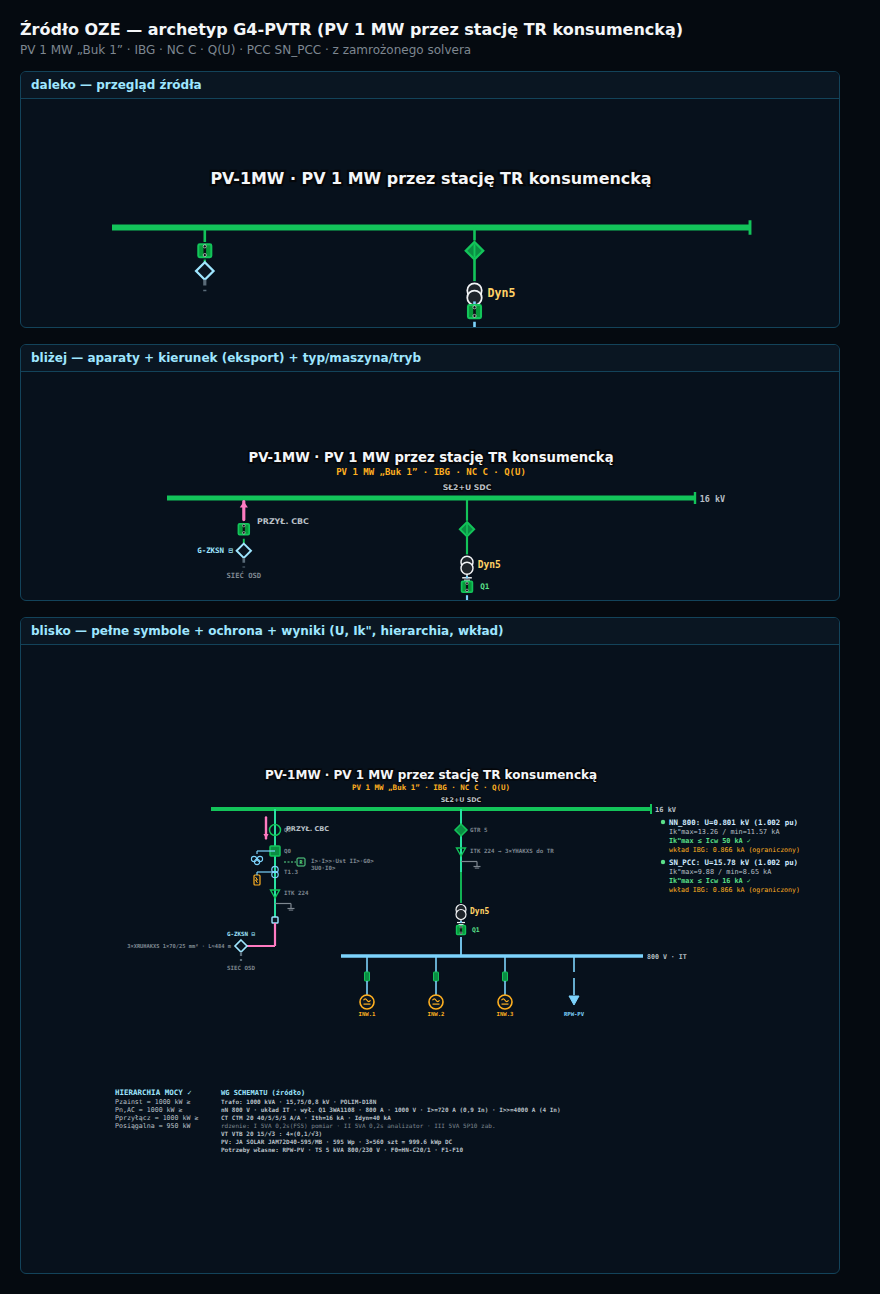
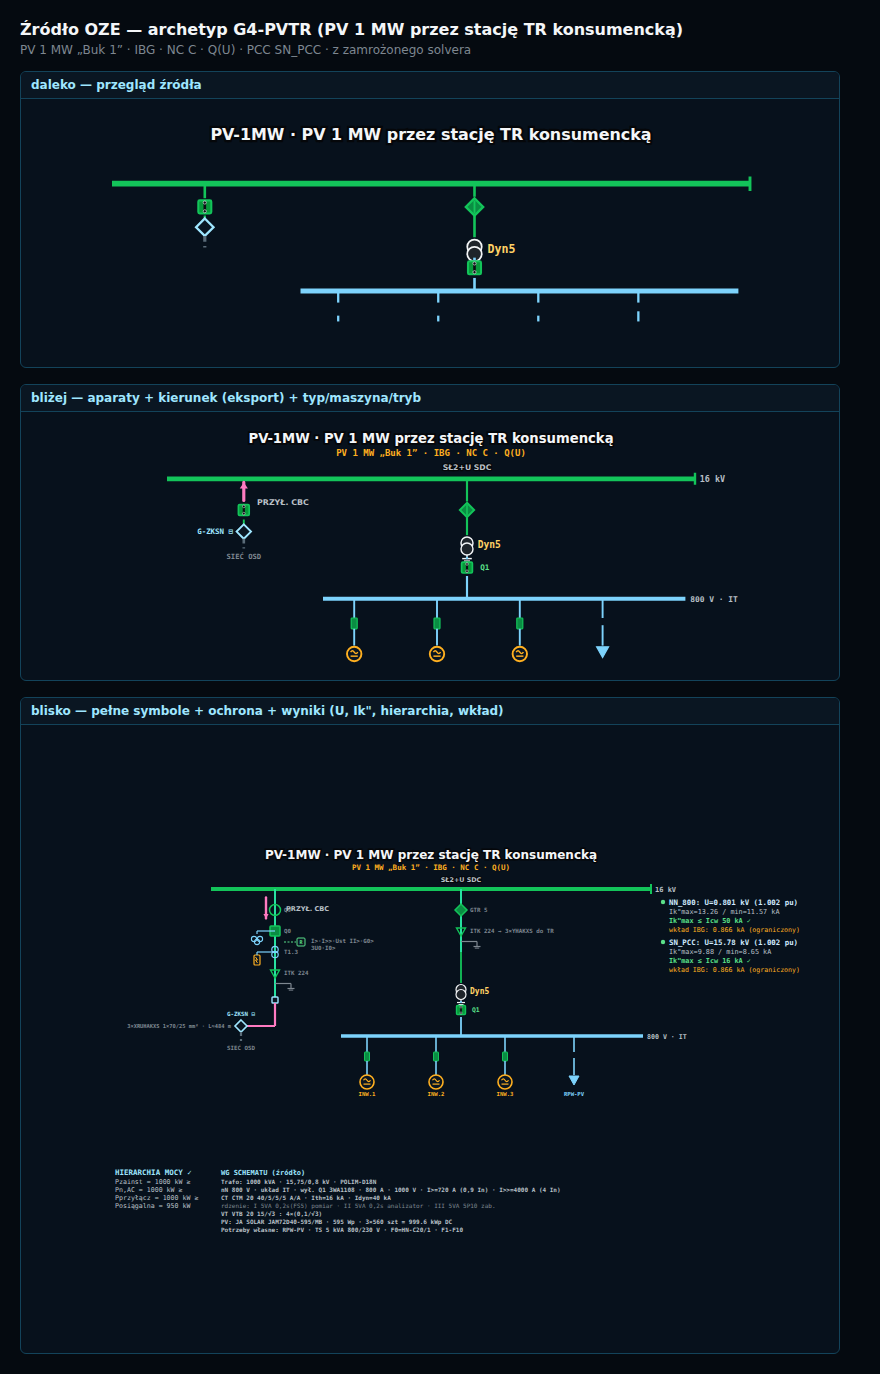
SLD OZE harness: fit the deep nN tier in the far/closer overview panels
After the terminal-station rebuild the transformer + nN tier hangs under the
transformer field, making the wide (Buk 1) board taller. The overview panels
top-anchored the content, so the nN busbar + inverter feeders ran off the bottom.

Fix (harness-only): for wide archetypes the far/closer panels are a touch taller
(300 px) and the content is vertically CENTRED instead of top-anchored, so the
whole nN tier (transformer → Q1 → 800 V busbar → INW.1/2/3 + RPW-PV) fits. Simple
archetypes (G1-G3) and the close panel are unchanged.

Verified fresh: tsc=0, full SLD v2 128 files/2366 tests, render 4 composites.

diff --git a/mv-design-pro/frontend/src/oze-source-harness-main.tsx b/mv-design-pro/frontend/src/oze-source-harness-main.tsx
@@ -36,14 +36,17 @@ function LevelPanel(props: { archetype: string; detail: StationDetailLevel; labe
   const { archetype, detail, label, onFieldClick } = props;
   const companion = OZE_ARCHETYPES_2A[archetype];
   const PANEL_W = 820;
-  const PANEL_H = detail === 'close' ? 660 : 260;
+  const wide = (companion.fields.length ?? 0) >= 6;
+  // Wide archetypes (Buk 1, ≥6 fields) carry a deep nN tier UNDER the transformer
+  // field, so the overview panels are a touch taller and the content is vertically
+  // CENTRED (not top-anchored) — otherwise the nN tier ran off the panel bottom.
+  const PANEL_H = detail === 'close' ? 660 : wide ? 300 : 260;
   const viewW = PANEL_W;
   const viewH = PANEL_H - 32;
-  // The Buk 1 archetype is wide (W≈440) — scale so the SN busbar fits the panel.
-  const wide = (companion.fields.length ?? 0) >= 6;
-  // Wide archetypes (Buk 1, ≥6 fields) shrink a touch at close so the right-side
-  // result panels clear the panel edge instead of clipping against it.
+  // Scale so the SN busbar fits the panel; wide archetypes shrink a touch.
   const scale = detail === 'far' ? (wide ? 1.45 : 1.9) : detail === 'closer' ? (wide ? 1.2 : 1.5) : wide ? 1.0 : 1.05;
+  // Vertical offset: centre the deep wide content; top-anchor the shallow ones.
+  const ty = detail === 'close' ? (wide ? -150 : 30) : detail === 'closer' ? (wide ? -56 : 10) : wide ? -34 : 10;
   return (
     <div
       data-testid={`oze-harness-panel-${detail}`}
@@ -54,7 +57,7 @@ function LevelPanel(props: { archetype: string; detail: StationDetailLevel; labe
         {label}
       </div>
       <svg data-testid={`oze-harness-svg-${detail}`} width={viewW} height={viewH} viewBox={`${-viewW / 2} ${-viewH / 2} ${viewW} ${viewH}`} style={{ display: 'block' }}>
-        <g transform={`scale(${scale}) translate(0, ${detail === 'close' ? (wide ? -150 : 30) : 10})`}>
+        <g transform={`scale(${scale}) translate(0, ${ty})`}>
           <OzeSourceArchetype companion={companion} stationCode={CODES[archetype] ?? archetype} name={NAMES[archetype] ?? archetype} detail={detail} onFieldClick={onFieldClick} />
         </g>
       </svg>
